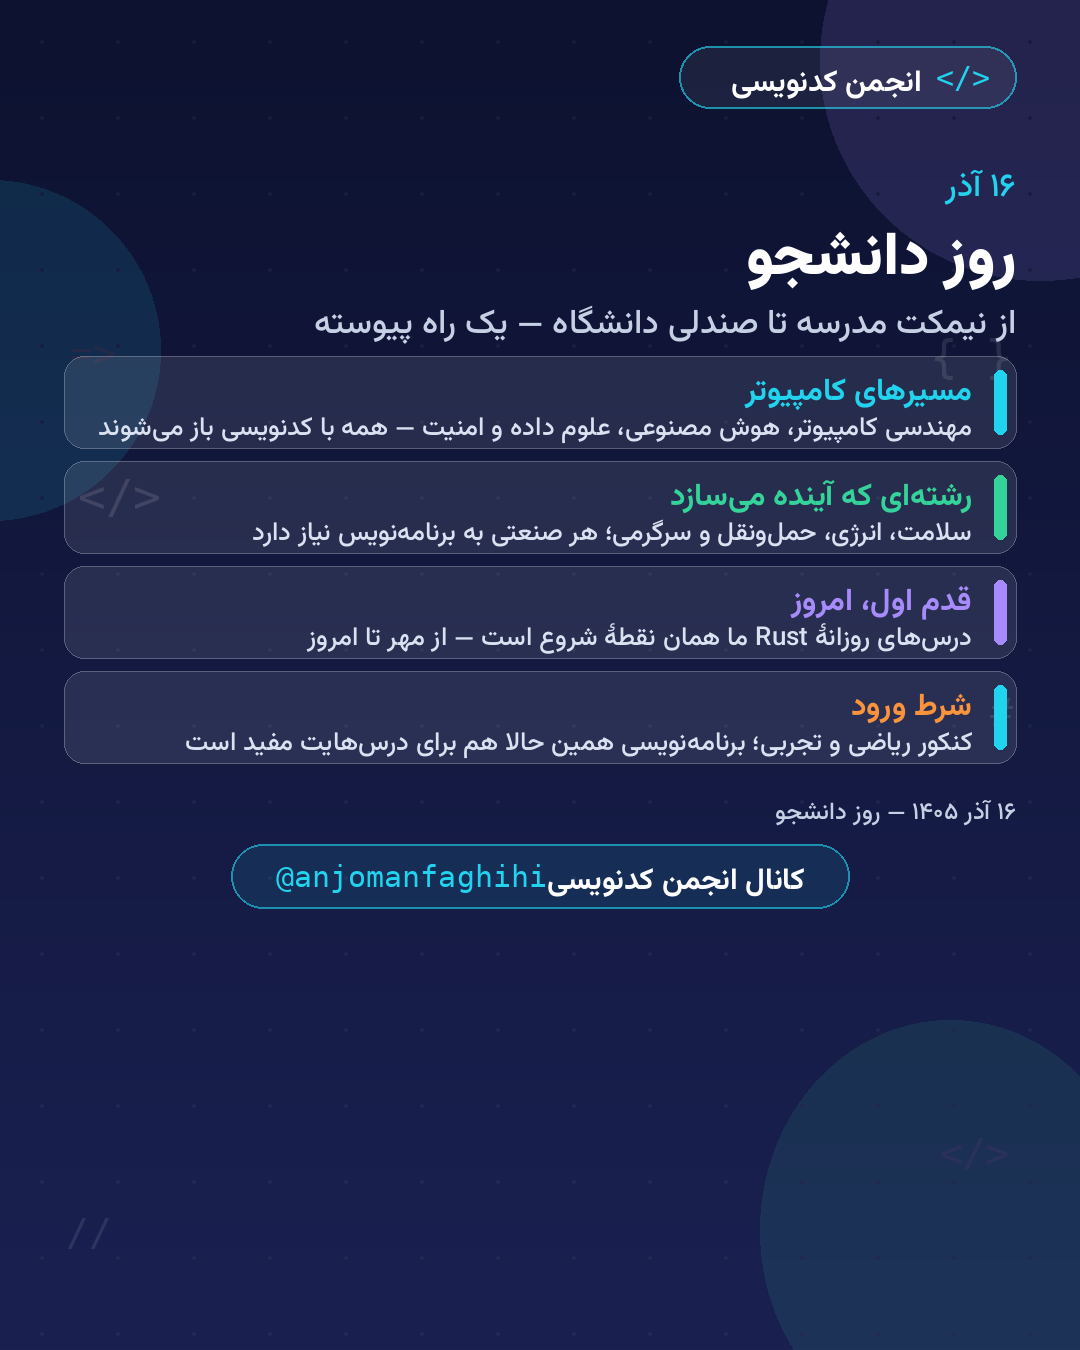
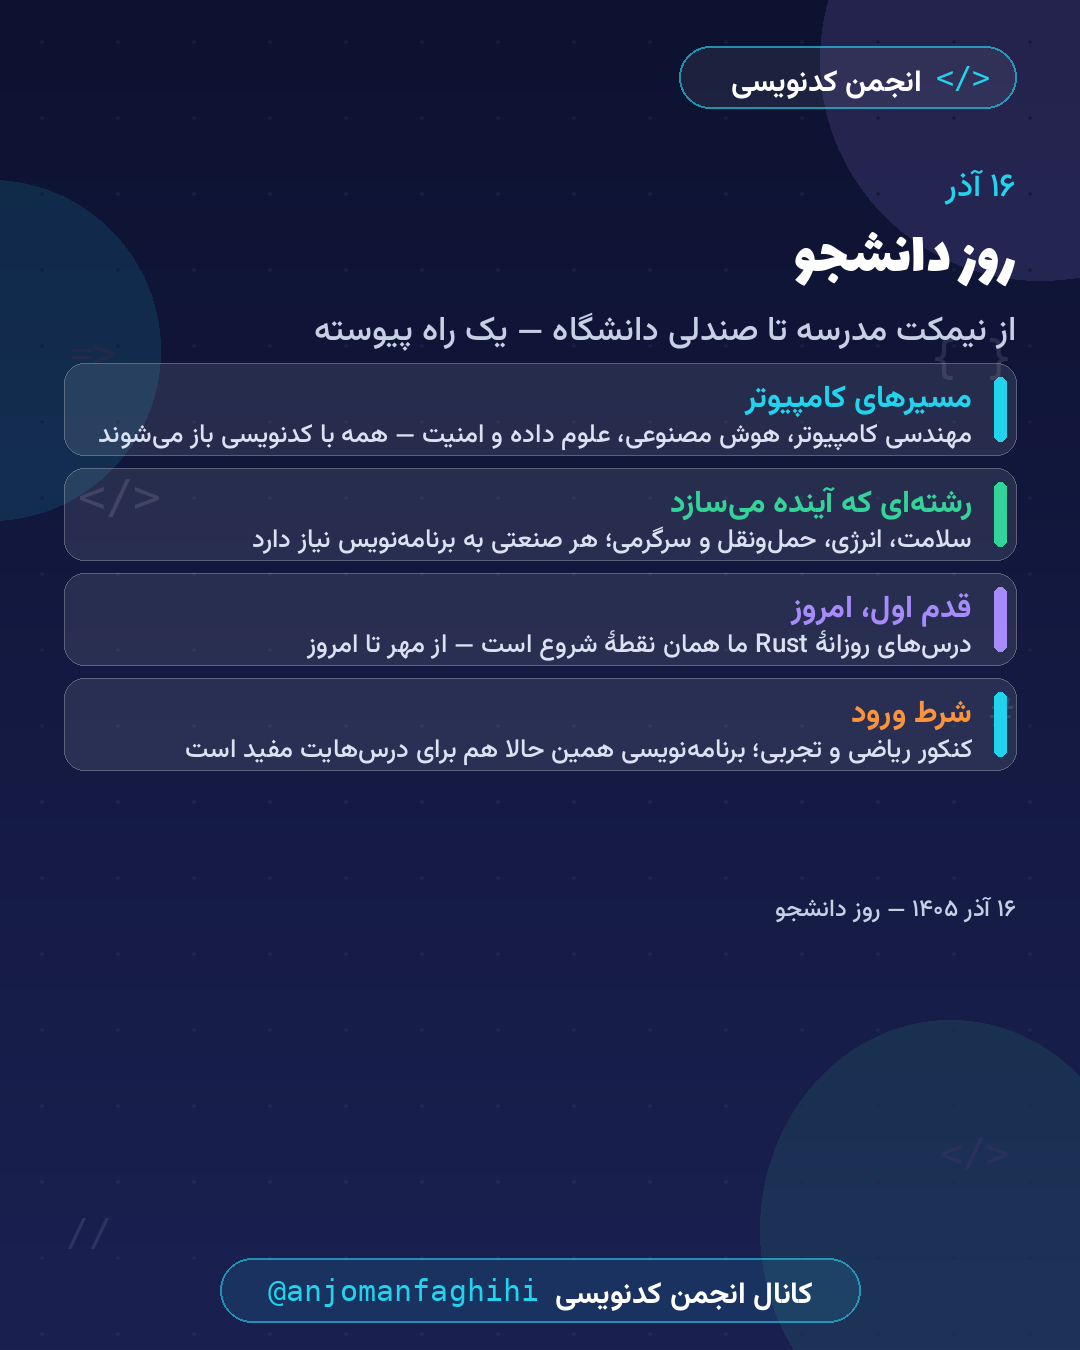
gardesh 16: font-e onvan-e poster ha -> Lalezar; chip-e daste az aks-ha hazf shod; caption-e bazi ba amoozesh-e kamel; pooster-e ketab baz-saz shod

diff --git a/channels/coding/content/inventory.md b/channels/coding/content/inventory.md
@@ -157,3 +157,18 @@ message_id) بهطور خودکار در `meta.json` همان پست و در 
 | — | بات | شاخهٔ web: mar-kodnevis.html جدید + **سوئیچ کش سرویسورکر به v2** (تا نصبهای قبلی نسخهٔ تازه بگیرند) | خلاقانه (نگهداری) | ✅ push (060d035) |
 
 **درسهای گردش:** ۱) تصویر AI هرگز برای متن فارسی — فونت خراب میشود؛ فقط پوستر خودمان. ۲) هر کتاب معرفیشده باید واقعی و قابلراستیآزی باشد. ۳) در صفحات HTML، اندازهگیری کانواس بعد از اعمال کلاسهای چیدمان انجام شود؛ فونت وزیرمتن از این پس در همهٔ بازیها جاسازی میشود.
+
+### ثبتهای ۱۴۰۵-۰۷-۳۱ (گردش ۱۶) — فونت عنوان پوسترها عوض شد (لالهزار) + چیپ دسته از عکسها حذف شد + آموزش کامل در متن پست بازی
+
+| شناسه | نویسنده | موضوع | دستهٔ داخلی | وضعیت |
+|---|---|---|---|---|
+| ۳۲ | بات | عکس بازی نسخهٔ ۳ — عنوان با وزیرمتنبلک (ظاهر ماژیکی/خراب به نظر مالک آمد) | خلاقانه | 🗑 **حذف شد (ok:true)** |
+| ۳۴ | بات | فایل بازی نسخهٔ ۳ | خلاقانه | 🗑 **حذف شد (ok:true)** |
+| ۳۵ | بات | عکس پست کتاب — همان فونت عنوان قدیمی | ترویجی | 🗑 **حذف شد (ok:true)** |
+| ۳۶ | بات | **بازی مار کدنویس — نسخهٔ ۴**: عنوان «مار کدنویس» در خود صفحهٔ بازی با فونت لالهزار (TTF کامل جاسازیشده — pyftsubset لالهزار را برای کروم میشکند؛ وزیرمتن ۴۰۰/۷۰۰ زیرمتن woff2 ماند) + کپشن با بخش کامل «آموزش بازی» (هدف، کنترل لمس/کیبورد، سه سرعت، رکورد، نصب PWA) | خلاقانه | 🔴 زنده — بازبینی چشمی شد (خانهها دایره، عنوان گرد و تمیز) |
+| ۳۸ | بات | فایل HTML نسخهٔ ۴ | خلاقانه | 🔴 زنده — آرشیو همگام |
+| ۳۹ | بات | پست کتاب Rust — همان متن و کتاب واقعی؛ فقط عکس بازسازی شد (عنوان لالهزار) | ترویجی | 🔴 زنده |
+| — | بات | کشف و رفع نقض قاعده: poster_lib نسخهٔ ۳ چیپ «نام دسته» را روی عکس رندر میکرد («اطلاعیه» در پوسترهای مناسبت صف) — **چیپ دسته کلاً از رندر حذف شد**؛ دسته فقط داخلی میماند. همهٔ عکسهای صف (مناسبت ×۵، مجله، variety ×۳، درس ۳) بدون چیپ بازسازی شدند | — | ✅ رفع شد |
+| — | بات | شاخهٔ web: عنوان بازی → لالهزار (TTF کامل base64)، کش سرویسورکر v2→v3 | خلاقانه (نگهداری) | ✅ push شاخهٔ web |
+
+**درسهای گردش:** ۱) فونت عنوان همهٔ پوسترهای آینده = لالهزار (`fa_title` در poster_lib)؛ وزیرمتن بلک کنار رفت. ۲) چیپ دسته هرگز نباید روی عکس پست بیاید — همین حالا از poster_lib حذف شد (قبلاً فقط در کپشن رعایت میشد). ۳) subset کردن لالهزار با pyftsubplot فونت را در کروم خراب میکند — برای لالهزار همیشه TTF کامل جاسازی شود. ۴) بعد از هر sendPhoto در بله، شناسهٔ پیامِ بعدی را هم کنترل کن (کپی دوباره: ۳۷ حذف شد).

diff --git a/channels/coding/content/queue/mansabet/abane13-roz-daneshamooz/text.md b/channels/coding/content/queue/mansabet/abane13-roz-daneshamooz/text.md
@@ -8,9 +8,11 @@
 - **تو هم میتوانی**: هر برنامهنویس بزرگی روزی دانشآموز بود و اولین خطش «Salam» بود
 
 فایل «13-aban.rs»:
-```rust
+```python
 let ayande = "دستهای تو";
 // آینده را همانها میسازند که امروز یاد میگیرند
 ```
 
 نکته: ۱۳ آبان ۱۴۰۵ — روز دانشآموز گرامی باد
+
+دستهٔ محتوا: اطلاعیه

diff --git a/channels/coding/content/queue/variety/kharazmi/text.md b/channels/coding/content/queue/variety/kharazmi/text.md
@@ -8,9 +8,11 @@
 - **کتاب الجبر**: منشأ واژهٔ جبر در ریاضیات جهان
 
 فایل «algorithm.rs»:
-```rust
+```python
 let algorithm = "مسیر گامبهگام حل مسئله";
 // هر برنامهٔ بزرگ، الگوریتمهای کوچک دارد
 ```
 
 نکته: الگوریتم یعنی دستورِ قدمبهقدم؛ پایهٔ هر زبانی که یاد بگیری
+
+دستهٔ محتوا: معرفی

diff --git a/channels/coding/content/queue/lessons/rust-dars-03-println-matn/text.md b/channels/coding/content/queue/lessons/rust-dars-03-println-matn/text.md
@@ -4,7 +4,7 @@
 حرف زدن با صفحه؛ با جایخالیهای {}
 
 فایل «src/main.rs»:
-```rust
+```python
 println!("Salam, donya!");
 println!("javab: {}", 42);
 println!("{} + {} = {}", 2, 3, 5);
@@ -19,3 +19,5 @@ javab: 42
 - **عدد و متن**: println! هر نوع دادهای را چاپ میکند
 
 نکته: تمرین: خودت را با دو خط println! معرفی کن
+
+دستهٔ محتوا: آموزشی

diff --git a/channels/coding/content/queue/mansabet/shabe-yalda/text.md b/channels/coding/content/queue/mansabet/shabe-yalda/text.md
@@ -8,10 +8,12 @@
 - **مرور سال**: آخر سال میلادی نزدیک است؛ ببین از مهر تا حالا چه یاد گرفتی و چه ساختی
 
 فایل «yalda.rs»:
-```rust
+```python
 let shab = "deraz";
 let kod = "garm";
 // شب بلند است، اما کدنویس از آن نمیترسد
 ```
 
 نکته: یلدا مبارک — ۳۰ آذر ۱۴۰۵
+
+دستهٔ محتوا: اطلاعیه

diff --git a/channels/coding/content/queue/mansabet/abane24-roz-ketab/text.md b/channels/coding/content/queue/mansabet/abane24-roz-ketab/text.md
@@ -9,3 +9,5 @@
 - **پیشنهاد شما**: کتاب خوبی میشناسی؟ در کانال معرفیاش کن؛ با نام تو منتشر میشود
 
 نکته: ۲۴ آبان ۱۴۰۵ — روز کتاب و کتابخوانی
+
+دستهٔ محتوا: اطلاعیه

diff --git a/channels/coding/content/queue/variety/poster-gorayesh/text.md b/channels/coding/content/queue/variety/poster-gorayesh/text.md
@@ -10,3 +10,5 @@
 - **بازیسازی**: بازی آموزشی با موتورهای بازیسازی
 
 نکته: تیم دو نفره — از یک منطقه، یک دوره و یک جنسیت (شرایط عمومی مسابقات)
+
+دستهٔ محتوا: ترویجی

diff --git a/channels/coding/content/queue/mansabet/fatemeh-sa-1448/text.md b/channels/coding/content/queue/mansabet/fatemeh-sa-1448/text.md
@@ -8,3 +8,5 @@
 - **به یاد او**: به رسم احترام، امروز کانال انجمن پرشور نیست؛ فقط این یادبود
 
 نکته: التماس دعا — انجمن علمیپژوهشی کدنویسی
+
+دستهٔ محتوا: اطلاعیه

diff --git a/channels/coding/content/queue/mansabet/azare16-roz-daneshjoo/text.md b/channels/coding/content/queue/mansabet/azare16-roz-daneshjoo/text.md
@@ -9,3 +9,5 @@
 - **شرط ورود**: کنکور ریاضی و تجربی؛ برنامهنویسی همین حالا هم برای درسهایت مفید است
 
 نکته: ۱۶ آذر ۱۴۰۵ — روز دانشجو
+
+دستهٔ محتوا: اطلاعیه

diff --git a/channels/coding/content/queue/magazine/aband-1405/text.md b/channels/coding/content/queue/magazine/aband-1405/text.md
@@ -9,3 +9,5 @@
 - **معرفی زبان**: C؛ ریشهای که ویندوز و لینوکس روی آن ساخته شد
 
 نکته: نسخهٔ کامل PDF در پیام بعدی همین کانال
+
+دستهٔ محتوا: ترویجی

diff --git a/channels/coding/content/queue/variety/manabe-rasmi/text.md b/channels/coding/content/queue/variety/manabe-rasmi/text.md
@@ -9,3 +9,5 @@
 - **اصول ما**: دقت، صبر و اعتماد فقط به منبع رسمی
 
 نکته: هر خبر مهم، با هشتگ اطلاعیه اینجا اعلام میشود
+
+دستهٔ محتوا: اطلاعیه
